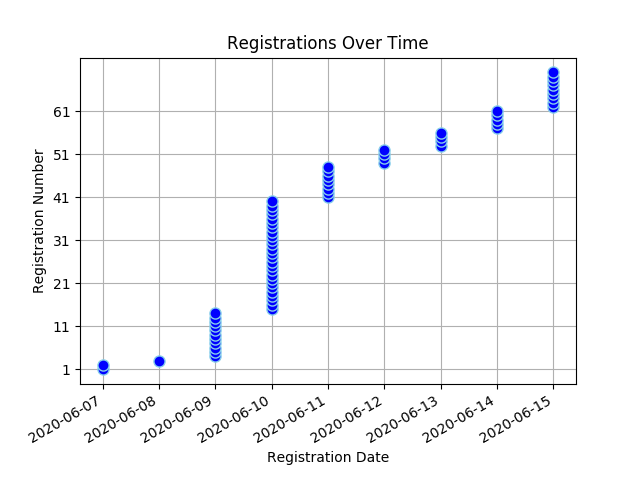
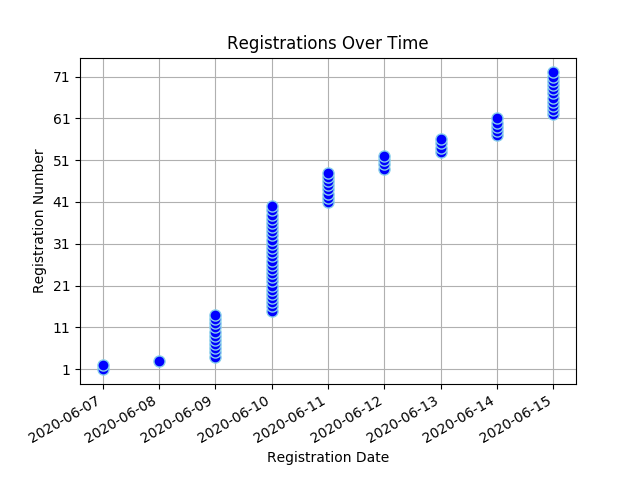
Registree stats backup on Mon Jun 15 13:19:44 SAST 2020

Changed region(s): [[0.0625, 0.1875, 0.9062, 0.7812]]

diff --git a/content/virtual_conf_stats/_index.md b/content/virtual_conf_stats/_index.md
@@ -16,7 +16,7 @@ draft: false
 </head>
 <body>
 <h1 style="color: #000000;">Virtual Convention Registration Stats</h1>
-<ul><li><strong>Number of Registrees</strong>: 70</li>
+<ul><li><strong>Number of Registrees</strong>: 72</li>
 </ul><a href="/docs/virtual_convention_stats.csv">Download registration details here</a>
 <h2>Registrees</h2>
 <table id="registreeTable" class="tablesorter" border="1" padding=1>
@@ -66,12 +66,14 @@ Club
 <tr><td>Marchant, Richard</td><td>The Wilds - Johannesburg</td></tr>
 <tr><td>Mare, Beaulieu</td><td>Benoni Lakes</td></tr>
 <tr><td>Mare, Nicholas</td><td>Benoni Lakes Lions</td></tr>
+<tr><td>MAYTHAM, LANCE</td><td>BREDASDORP</td></tr>
 <tr><td>Meltzer, Mark</td><td>THE WILDS</td></tr>
 <tr><td>Meyer, Denis</td><td>Port Shepstone</td></tr>
 <tr><td>Michas, Roy</td><td>Midrand</td></tr>
 <tr><td>Mills, Patrick</td><td>Centurion</td></tr>
 <tr><td>Nulliah, Ramona</td><td>Durban Host</td></tr>
 <tr><td>Olivier, Debra</td><td>Sedgefield</td></tr>
+<tr><td>Pantoleon, IPP</td><td>Vereeniging Lions Club</td></tr>
 <tr><td>Polkinghorne, Gavin</td><td>Kensington</td></tr>
 <tr><td>Polkinghorne, Tracey</td><td>Kensington</td></tr>
 <tr><td>PORTEOUS, BRIAN</td><td>HIBBERDENE - 57333</td></tr>
